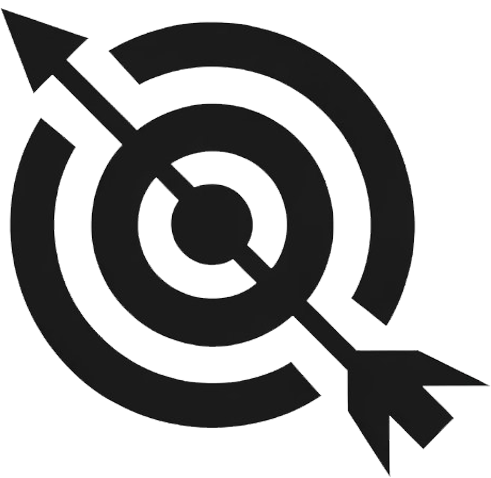
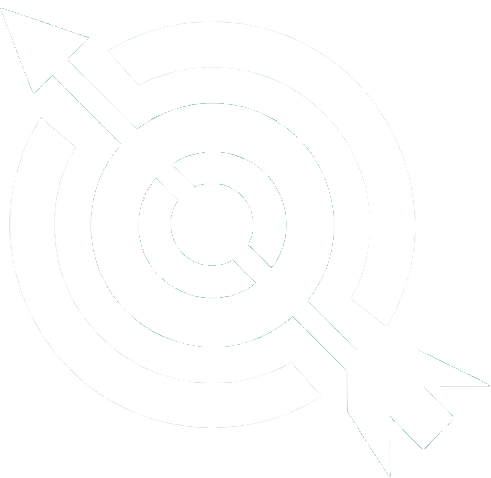
主色更改

diff --git a/src/views/front/SellView.vue b/src/views/front/SellView.vue
@@ -1,5 +1,5 @@
 <template lang="pug">
-VContainer(cols="8" style="background-color: lightcoral;")
+VContainer(cols="8")
   VRow(justify="center" align-item-center)
     VCol(cols="10")
       h1 商品列表

diff --git a/src/layouts/FrontLayout.vue b/src/layouts/FrontLayout.vue
@@ -143,6 +143,7 @@ const logout = async () => {
 }
 
 .bg {
-  background-color: #c0f1ff;
+  background-color: #000000;
+  color: aliceblue;
 }
 </style>
